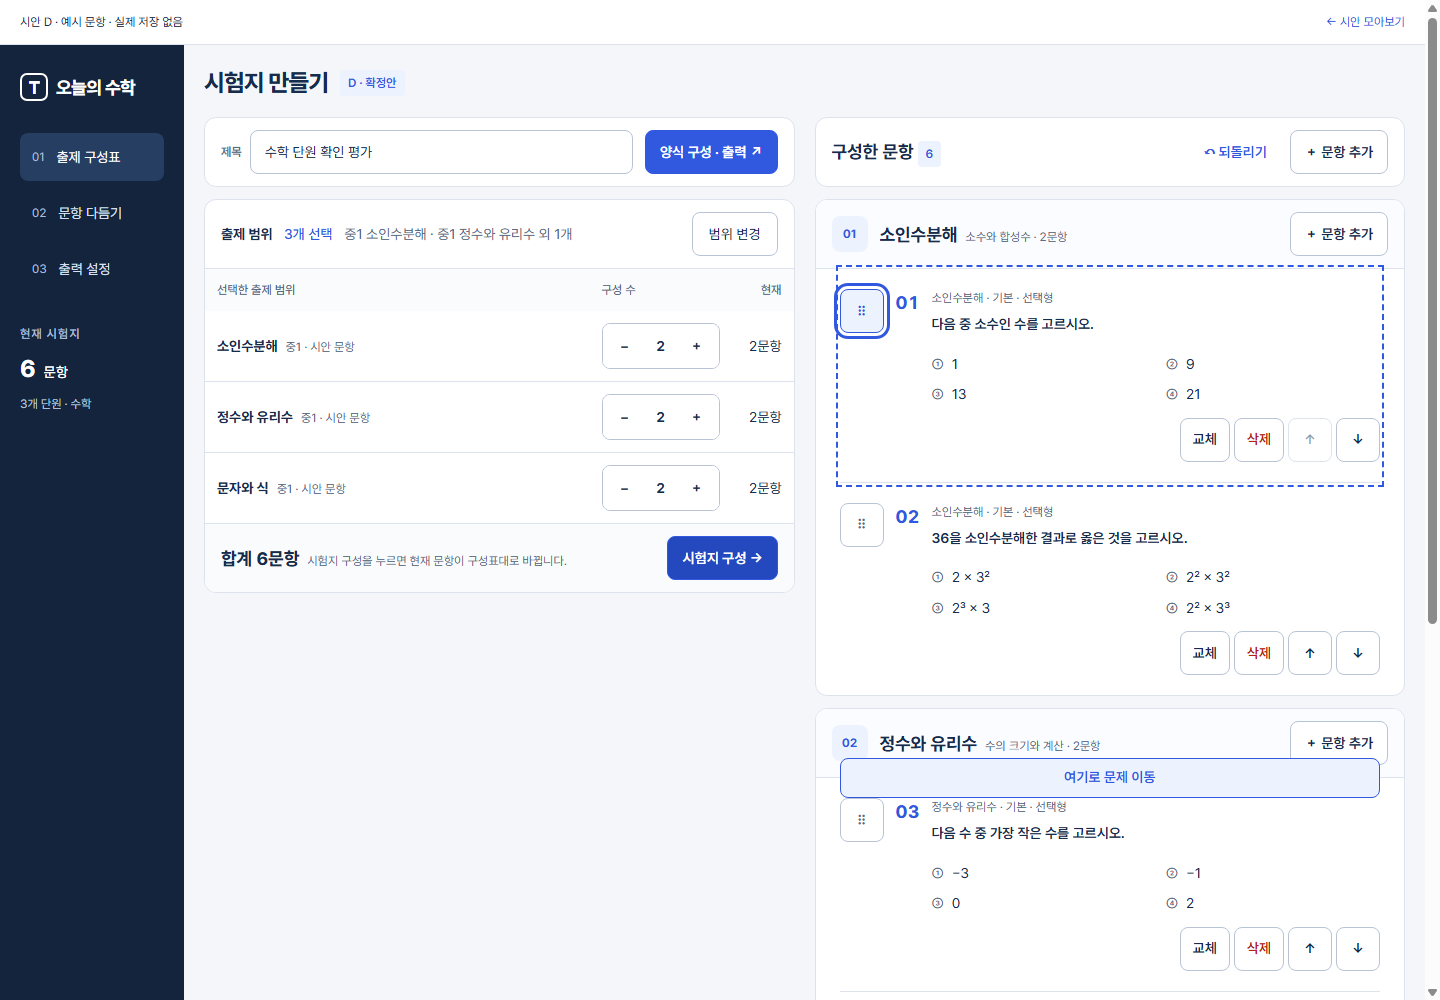
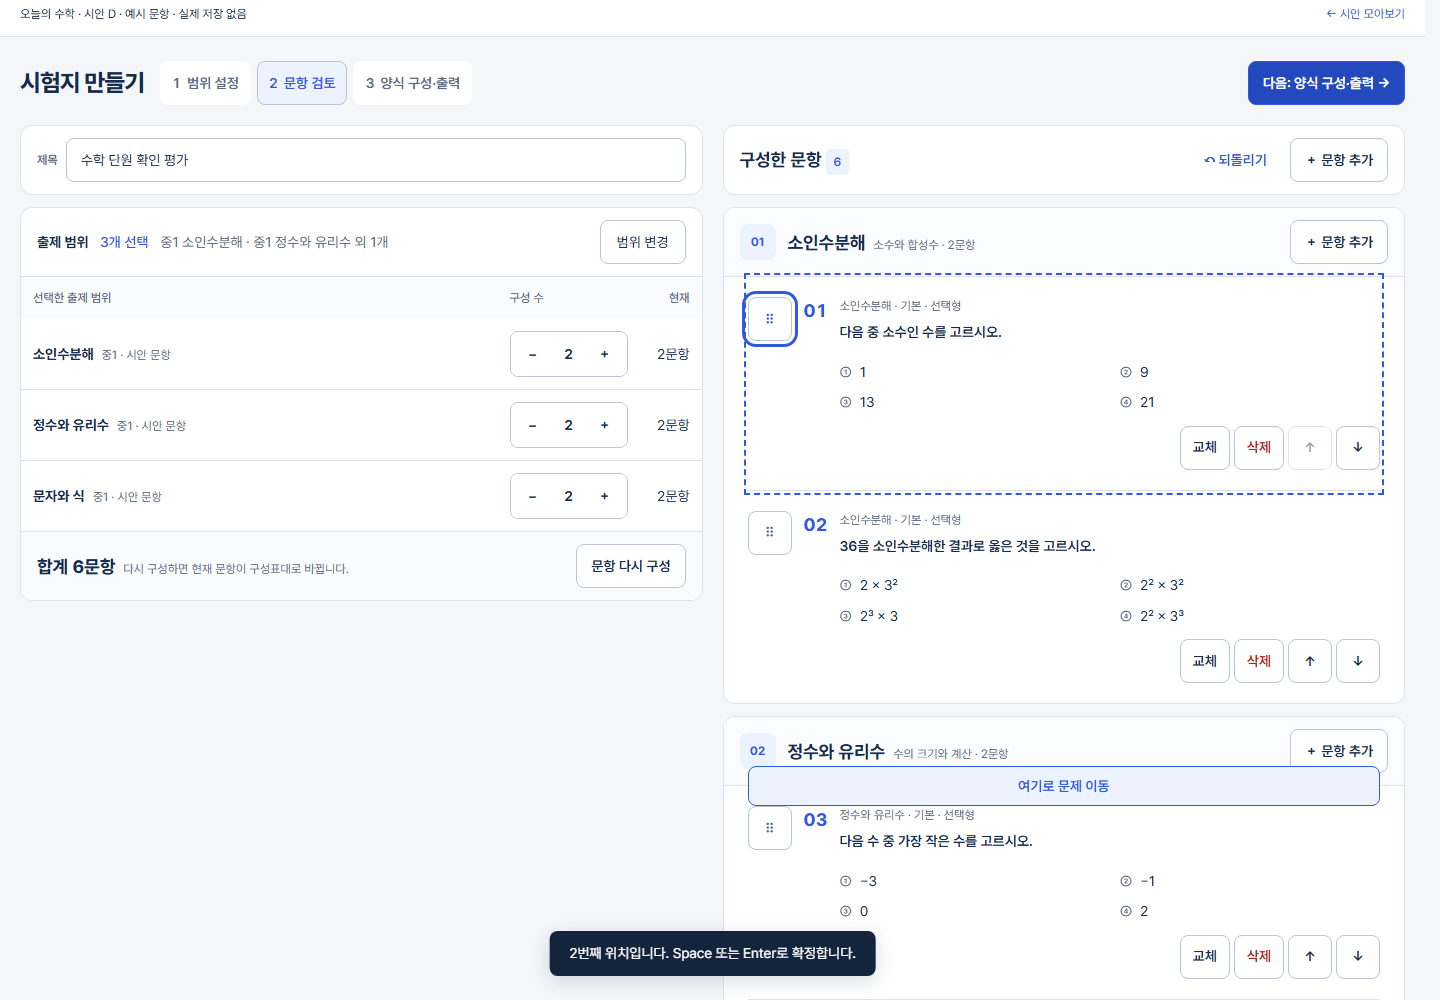
Connect D exam builder stages through shared format and output

diff --git a/docs/design/mockups/exam-builder-common-20261008/d-blueprint.html b/docs/design/mockups/exam-builder-common-20261008/d-blueprint.html
@@ -1728,6 +1728,7 @@
         target: 6,
         items: [],
         composed: false,
+        step: "scope",
         title: `${window.ExamScope.subject} 단원 확인 평가`,
         answers: false,
         space: false,
@@ -1749,6 +1750,7 @@
           state.counts = units().map((_, i) =>
             state.selected[i] ? (previous[i] ? state.counts[i] : 2) : 0,
           );
+          state.step = "scope";
           render();
           notify(
             "출제 범위를 변경했습니다. 현재 문항은 유지되며, 시험지 구성을 누르면 바뀝니다.",
@@ -1833,10 +1835,10 @@
         return `<label class="field title-field"><span>${esc(label)}</span><input aria-label="시험지 제목" id="exam-title" maxlength="80" value="${esc(state.title)}"></label>`;
       }
       function previewButton() {
-        return `<button class="primary" data-action="preview" ${!state.items.length ? "disabled" : ""}>양식 구성 · 출력 <span aria-hidden="true">↗</span></button>`;
+        return `<button class="primary" data-action="preview" aria-label="양식 구성·출력으로 이동" ${!state.items.length ? "disabled" : ""}>${VARIANT === "D" ? '<span class="builder-next-long">다음: 양식 구성·출력</span><span class="builder-next-short">다음 단계</span>' : "양식 구성 · 출력"} <span aria-hidden="true">→</span></button>`;
       }
       function commonNote() {
-        return `<div class="top-note"><span>시안 ${VARIANT} · 예시 문항 · 실제 저장 없음</span><a href="index.html${esc(location.search)}">← 시안 모아보기</a></div>`;
+        return `<div class="top-note"><span>${VARIANT === "D" ? esc(window.ExamScope.productName) + " · " : ""}시안 ${VARIANT} · 예시 문항 · 실제 저장 없음</span><a href="index.html${esc(location.search)}">← 시안 모아보기</a></div>`;
       }
       function countTypes() {
         const choice = state.items.filter(
@@ -1875,9 +1877,46 @@
         }
         return runs;
       }
+      function flowNavigation() {
+        return `<nav class="builder-steps" aria-label="시험지 만들기 단계">${[
+          ["scope", "범위 설정"],
+          ["review", "문항 검토"],
+          ["output", "양식 구성·출력"],
+        ]
+          .map(([step, label], index) => {
+            const current = state.step === step;
+            const disabled =
+              step === "review"
+                ? !state.composed
+                : step === "output"
+                  ? !state.items.length
+                  : false;
+            return `<button type="button" data-action="step" data-step="${step}" aria-pressed="${current}" ${current ? 'aria-current="step"' : ""} ${disabled ? "disabled" : ""}><span>${index + 1}</span> ${label}</button>`;
+          })
+          .join("")}</nav>`;
+      }
+      function focusStep(step) {
+        const target = step === "scope" ? $("#scope") : $("#composition-title");
+        target?.focus({ preventScroll: true });
+        if (window.matchMedia("(max-width: 860px)").matches) {
+          target?.scrollIntoView({ block: "start" });
+        } else {
+          window.scrollTo({ top: 0, behavior: "instant" });
+        }
+      }
+      function goToStep(step) {
+        if (step === "output") {
+          if (state.items.length) openOutput();
+          return;
+        }
+        if (step === "review" && !state.composed) return;
+        state.step = step;
+        render();
+        focusStep(step);
+      }
       function renderD() {
         const total = state.counts.reduce((a, b) => a + b, 0);
-        return `${commonNote()}<div class="shell"><aside class="rail"><div><div class="brand"><span class="mark" aria-hidden="true">T</span>${esc(window.ExamScope.productName)}</div></div><nav aria-label="현재 작업"><a class="rail-link selected" href="#scope"><small>01</small>출제 구성표</a><a class="rail-link" href="#composition"><small>02</small>문항 다듬기</a><a class="rail-link" href="#output"><small>03</small>출력 설정</a></nav><div class="rail-stat"><div class="eyebrow">현재 시험지</div><div class="rail-count">${state.items.length}<span style="font-size:14px;font-weight:500;margin-left:8px">문항</span></div><p class="caption" style="color:#b4c4da;margin-top:8px">${state.order.filter((i) => unitItems(i).length).length}개 단원 · ${esc(state.subject)}</p></div><p class="rail-note">단원별 수량을 먼저 정하고<br>문항을 한 묶음씩 검토합니다.</p></aside><main class="workspace"><header class="heading blueprint-header"><h1>시험지 만들기</h1><span class="badge">D · 확정안</span></header><aside class="settings-column" aria-label="시험지 설정과 출제 범위"><section class="panel output-panel" id="output" aria-label="제목 및 출력 설정"><div class="output-fields">${titleField("제목")}${previewButton()}</div></section><section class="panel setup" id="scope" aria-label="출제 구성표">${scopeHTML()}${allocationHTML()}<div class="compose-bar"><div><span class="total">합계 ${total}문항</span><p class="caption" id="scope-status" style="margin-top:4px"></p></div><button class="primary" data-action="compose" ${total ? "" : "disabled"}>시험지 구성 <span aria-hidden="true">→</span></button></div></section></aside><div class="review-column"><div class="initial-empty panel"><span class="eyebrow">다음 · 단원별 문항 검토</span><h2>구성표가 시험지의 뼈대가 됩니다.</h2><p class="muted">단원별 문항 수를 정한 뒤 시험지 구성을 눌러 주세요.</p></div><section id="composition" aria-labelledby="composition-title"><div class="spread results-heading"><h2 id="composition-title">구성한 문항 <span class="badge">${state.items.length}</span></h2><div class="row"><button class="text" data-action="undo" ${history.length ? "" : "disabled"}>↶ 되돌리기</button><button data-action="add">＋ 문항 추가</button></div></div>${
+        return `${commonNote()}<div class="shell builder-shell"><main class="workspace"><header class="heading blueprint-header"><h1>시험지 만들기</h1>${flowNavigation()}<div class="builder-next">${state.step === "scope" ? `<button class="primary" data-action="compose" ${total ? "" : "disabled"}>문항 구성 <span aria-hidden="true">→</span></button>` : previewButton()}</div></header><aside class="settings-column" aria-label="시험지 설정과 출제 범위"><section class="panel output-panel" id="output" aria-label="시험지 제목"><div class="output-fields">${titleField("제목")}</div></section><section class="panel setup" id="scope" tabindex="-1" aria-label="출제 구성표">${scopeHTML()}${allocationHTML()}<div class="compose-bar"><div><span class="total">합계 ${total}문항</span><p class="caption" id="scope-status" style="margin-top:4px"></p></div>${state.step === "review" ? `<button data-action="compose" ${total ? "" : "disabled"}>문항 다시 구성</button>` : ""}</div></section></aside><div class="review-column"><div class="initial-empty panel"><h2>범위를 정하고 문항을 구성하세요.</h2><p class="muted">구성한 문항을 교체·추가·삭제한 뒤 양식 구성·출력으로 이어집니다.</p></div><section id="composition" aria-labelledby="composition-title"><div class="spread results-heading"><h2 id="composition-title" tabindex="-1">구성한 문항 <span class="badge">${state.items.length}</span></h2><div class="row"><button class="text" data-action="undo" ${history.length ? "" : "disabled"}>↶ 되돌리기</button><button data-action="add">＋ 문항 추가</button></div></div>${
           state.items.length
             ? questionRuns()
                 .map(
@@ -1903,7 +1942,9 @@
         } else {
           const n = state.counts.reduce((a, b) => a + b, 0);
           $("#scope-status").textContent = n
-            ? "시험지 구성을 누르면 현재 문항이 구성표대로 바뀝니다."
+            ? state.composed
+              ? "다시 구성하면 현재 문항이 구성표대로 바뀝니다."
+              : "범위와 수량을 정한 뒤 문항 구성으로 이어가세요."
             : "연결된 예제 범위를 선택하고 문항 수를 1개 이상 정하세요.";
           $('[data-action="compose"]').disabled = !n;
         }
@@ -1923,6 +1964,7 @@
         if ($('[data-action="compose"]').disabled) return;
         if (!initial) remember();
         state.composed = true;
+        state.step = "review";
         state.items = [];
         if (VARIANT === "D") {
           state.order.forEach((u) =>
@@ -1948,6 +1990,7 @@
           state.items.sort((a, b) => getQ(a).unit - getQ(b).unit);
         }
         render();
+        if (VARIANT === "D" && !initial) focusStep("review");
         if (!initial)
           notify(`${state.items.length}문항으로 시험지를 구성했습니다.`);
       }
@@ -2011,6 +2054,7 @@
         ExamOutput.open(
           {
             subject: state.subject === "영어" ? "english" : "math",
+            ...(VARIANT === "D" ? { flow: "blueprint" } : {}),
             title: state.title,
             questions: ordered.map((id) => {
               const q = getQ(id);
@@ -2040,9 +2084,20 @@
                 ...state.order.filter((u) => !activeUnits.includes(u)),
               ];
             }
-            render();
-            $('[data-action="preview"]')?.focus({ preventScroll: true });
+            if (VARIANT !== "D") {
+              render();
+              $('[data-action="preview"]')?.focus({ preventScroll: true });
+            }
           },
+          VARIANT === "D"
+            ? {
+                onClose: (payload) => {
+                  state.step = payload?.step === "scope" ? "scope" : "review";
+                  render();
+                  focusStep(state.step);
+                },
+              }
+            : undefined,
         );
       }
       document.addEventListener("click", (e) => {
@@ -2055,6 +2110,10 @@
         const action = b.dataset.action,
           id = b.dataset.id,
           u = Number(b.dataset.unit);
+        if (action === "step") {
+          goToStep(b.dataset.step);
+          return;
+        }
         if (action === "allocation-prev" || action === "allocation-next") {
           allocationPage += action === "allocation-next" ? 1 : -1;
           render();
@@ -2108,6 +2167,7 @@
         }
         if (action === "more" || action === "less") {
           remember();
+          state.step = "scope";
           state.counts[u] = Math.max(
             0,
             Math.min(4, state.counts[u] + (action === "more" ? 1 : -1)),

diff --git a/docs/design/mockups/exam-builder-common-20261008/editing-layout.css b/docs/design/mockups/exam-builder-common-20261008/editing-layout.css
@@ -130,6 +130,54 @@
     gap: 12px;
     min-height: 44px;
     margin-bottom: 12px;
+    position: sticky;
+    top: 0;
+    z-index: 10;
+    padding: 8px 0;
+    background: var(--learn-bg);
+  }
+  .blueprint-mode .builder-shell {
+    display: block;
+  }
+  .blueprint-header h1 {
+    margin-right: 4px;
+    white-space: nowrap;
+  }
+  .builder-steps {
+    display: flex;
+    flex-wrap: wrap;
+    gap: 6px;
+  }
+  .builder-steps button {
+    display: inline-flex;
+    align-items: center;
+    gap: 6px;
+    min-height: 44px;
+    padding: 8px 11px;
+    border-color: transparent;
+    color: var(--learn-muted);
+    background: var(--learn-surface);
+  }
+  .builder-steps button[aria-current="step"] {
+    border-color: var(--learn-control);
+    color: var(--learn-accent);
+    background: var(--learn-soft);
+  }
+  .builder-steps button > span {
+    font-variant-numeric: tabular-nums;
+  }
+  .builder-next {
+    margin-left: auto;
+  }
+  .builder-next-short {
+    display: none;
+  }
+  .blueprint-mode :is(#scope, #composition-title) {
+    scroll-margin-top: 96px;
+  }
+  .blueprint-mode #composition-title:focus,
+  .blueprint-mode #scope:focus {
+    outline: none;
   }
   .blueprint-mode .output-panel,
   .blueprint-mode .results-heading {
@@ -281,6 +329,40 @@
     }
   }
   @media (max-width: 860px) {
+    .blueprint-mode .blueprint-header {
+      gap: 8px;
+    }
+    .blueprint-mode .blueprint-header h1 {
+      font-size: 22px;
+    }
+    .blueprint-mode .builder-steps {
+      display: grid;
+      grid-template-columns: repeat(3, minmax(0, 1fr));
+      width: 100%;
+      order: 2;
+    }
+    .blueprint-mode .builder-steps button {
+      min-width: 0;
+      padding: 8px 6px;
+      justify-content: center;
+      white-space: normal;
+    }
+    .blueprint-mode .builder-next {
+      flex: 0 1 auto;
+    }
+    .blueprint-mode .builder-next button {
+      max-width: 100%;
+      white-space: normal;
+    }
+    .blueprint-mode .builder-next-long {
+      display: none;
+    }
+    .blueprint-mode .builder-next-short {
+      display: inline;
+    }
+    .blueprint-mode :is(#scope, #composition-title) {
+      scroll-margin-top: 150px;
+    }
     .wrap,
     .main,
     .workspace {

diff --git a/docs/design/mockups/exam-builder-common-20261008/output-bridge.js b/docs/design/mockups/exam-builder-common-20261008/output-bridge.js
@@ -8,6 +8,7 @@
     ready = false,
     draft,
     onBack,
+    onClose,
     opener,
     timeout;
   let previousOverflow;
@@ -32,6 +33,7 @@
     document.documentElement.style.overflow = previousOverflow;
     if (returned) onBack?.(payload);
     if (opener?.isConnected) opener.focus({ preventScroll: true });
+    onClose?.(returned ? payload : undefined);
   }
   function requestClose() {
     if (ready) send("exam-concept:close");
@@ -74,10 +76,11 @@
     });
   }
   window.ExamOutput = {
-    open(payload, callback) {
+    open(payload, callback, options = {}) {
       if (!payload.questions.length) return;
       draft = payload;
       onBack = callback;
+      onClose = options.onClose;
       opener = document.activeElement;
       if (!dialog) create();
       previousOverflow = document.documentElement.style.overflow;

diff --git a/docs/design/mockups/exam-builder-common-20261008/index.html b/docs/design/mockups/exam-builder-common-20261008/index.html
@@ -624,7 +624,7 @@
           file: "d-blueprint.html",
           title: "단원별 구성표",
           desc: "확정안 · 왼쪽에서 제목과 출제 조건을 설정하고, 오른쪽에서 문항을 확인합니다.",
-          flow: "범위별 문항 배분 → 묶음 검토 → 공통 양식 구성",
+          flow: "범위 설정 → 문항 검토 → 양식 구성·출력",
           fit: "여러 단원이 섞인 정기 평가",
           image: "previews/d.png",
         },

diff --git a/docs/design/workspace-ui-rules-20261008.md b/docs/design/workspace-ui-rules-20261008.md
@@ -62,6 +62,7 @@
 - 범위 선택 → 문항 구성·검토 다음에는 문제 추출의 마지막 **시험지 구성** 화면을 함께 사용한다. 시안마다 간단한 출력 폼을 별도로 만들지 않는다.
 - 공통 구현 기준은 `UnifiedWorkspace`의 export 단계가 사용하는 `WorksheetEditor`와 그 안의 `PrintOptionsPanel`, `WorksheetPrint`다. 기존 여섯 양식과 세부 인쇄 설정을 재사용한다.
 - [5개 시안](mockups/exam-builder-common-20261008/README.txt)은 `/dev/exam-builder-output`에서 실제 컴포넌트를 재사용한다. 선택한 문항·제목·순서를 넘기고, 검토 화면으로 복귀할 때 변경을 반영한다.
+- 확정된 D안은 범위 설정 → 문항 검토 → 양식 구성·출력의 세 단계 메뉴를 공유한다. 문항 구성 후 검토 단계가 활성화되며, 출력에서도 범위/검토로 돌아갈 수 있다. 단계 이동과 양식 재진입에서 제목·문항 순서·서식을 유지한다. `StudioStepBar`의 선택적인 단계 메뉴를 사용하며 기존 문제 추출의 기본 네 단계는 유지한다.
 - 이는 개발용 시안 연결이다. 운영 영어 `EnglishBankPrint`나 수학 문제은행의 제작 진입 흐름을 전환한 상태는 아니며, 실제 저장·권한·문항 계약의 통합은 운영 구현 때 유지해야 한다.
 
 ### 영어듣기 — `english-listening`
